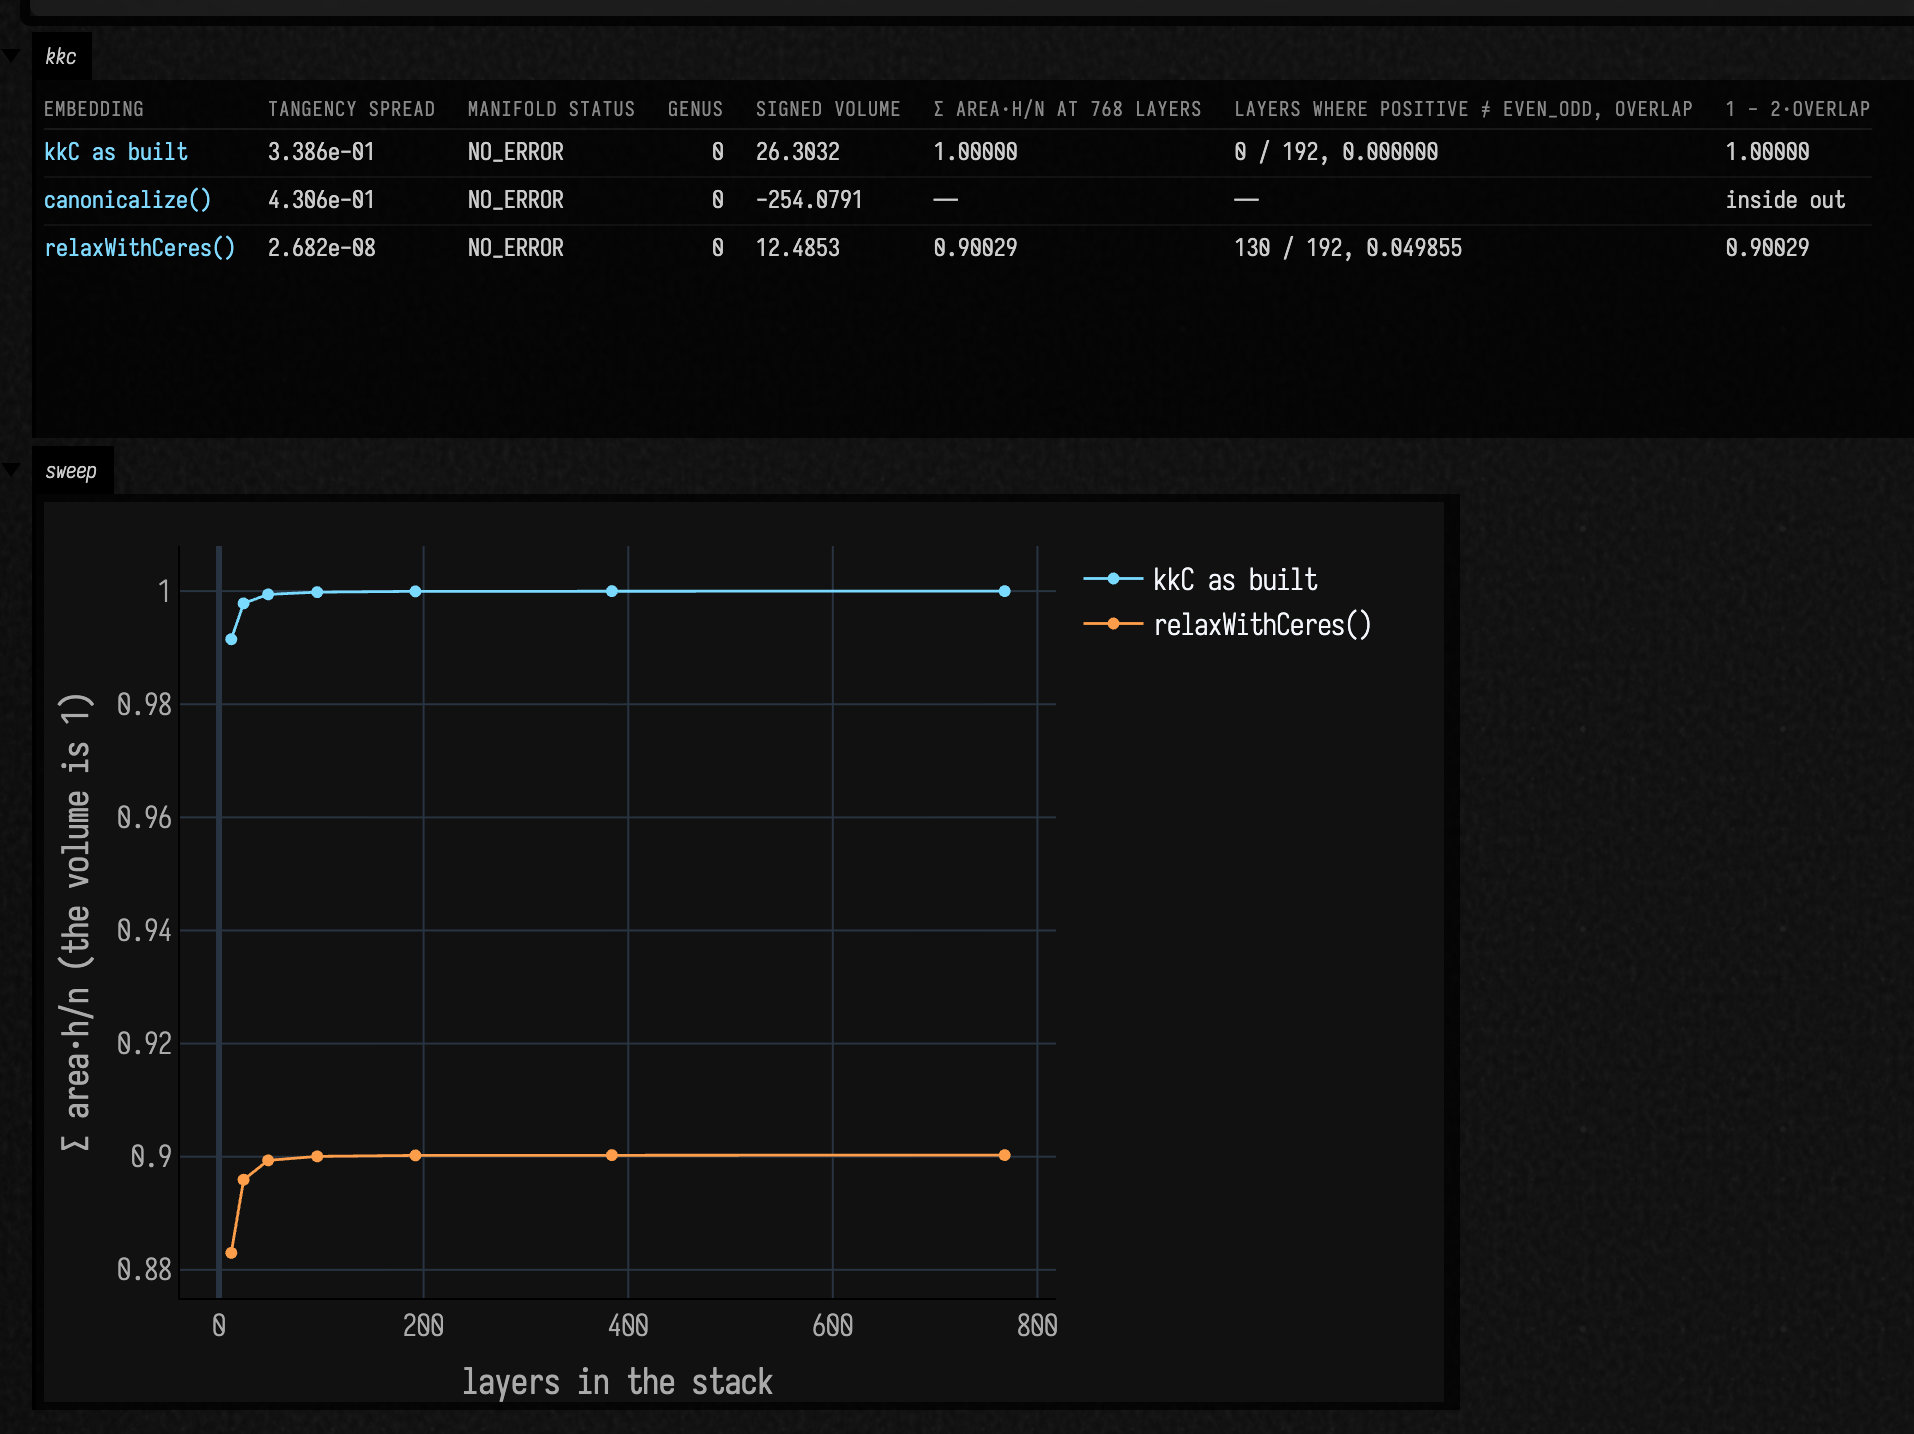
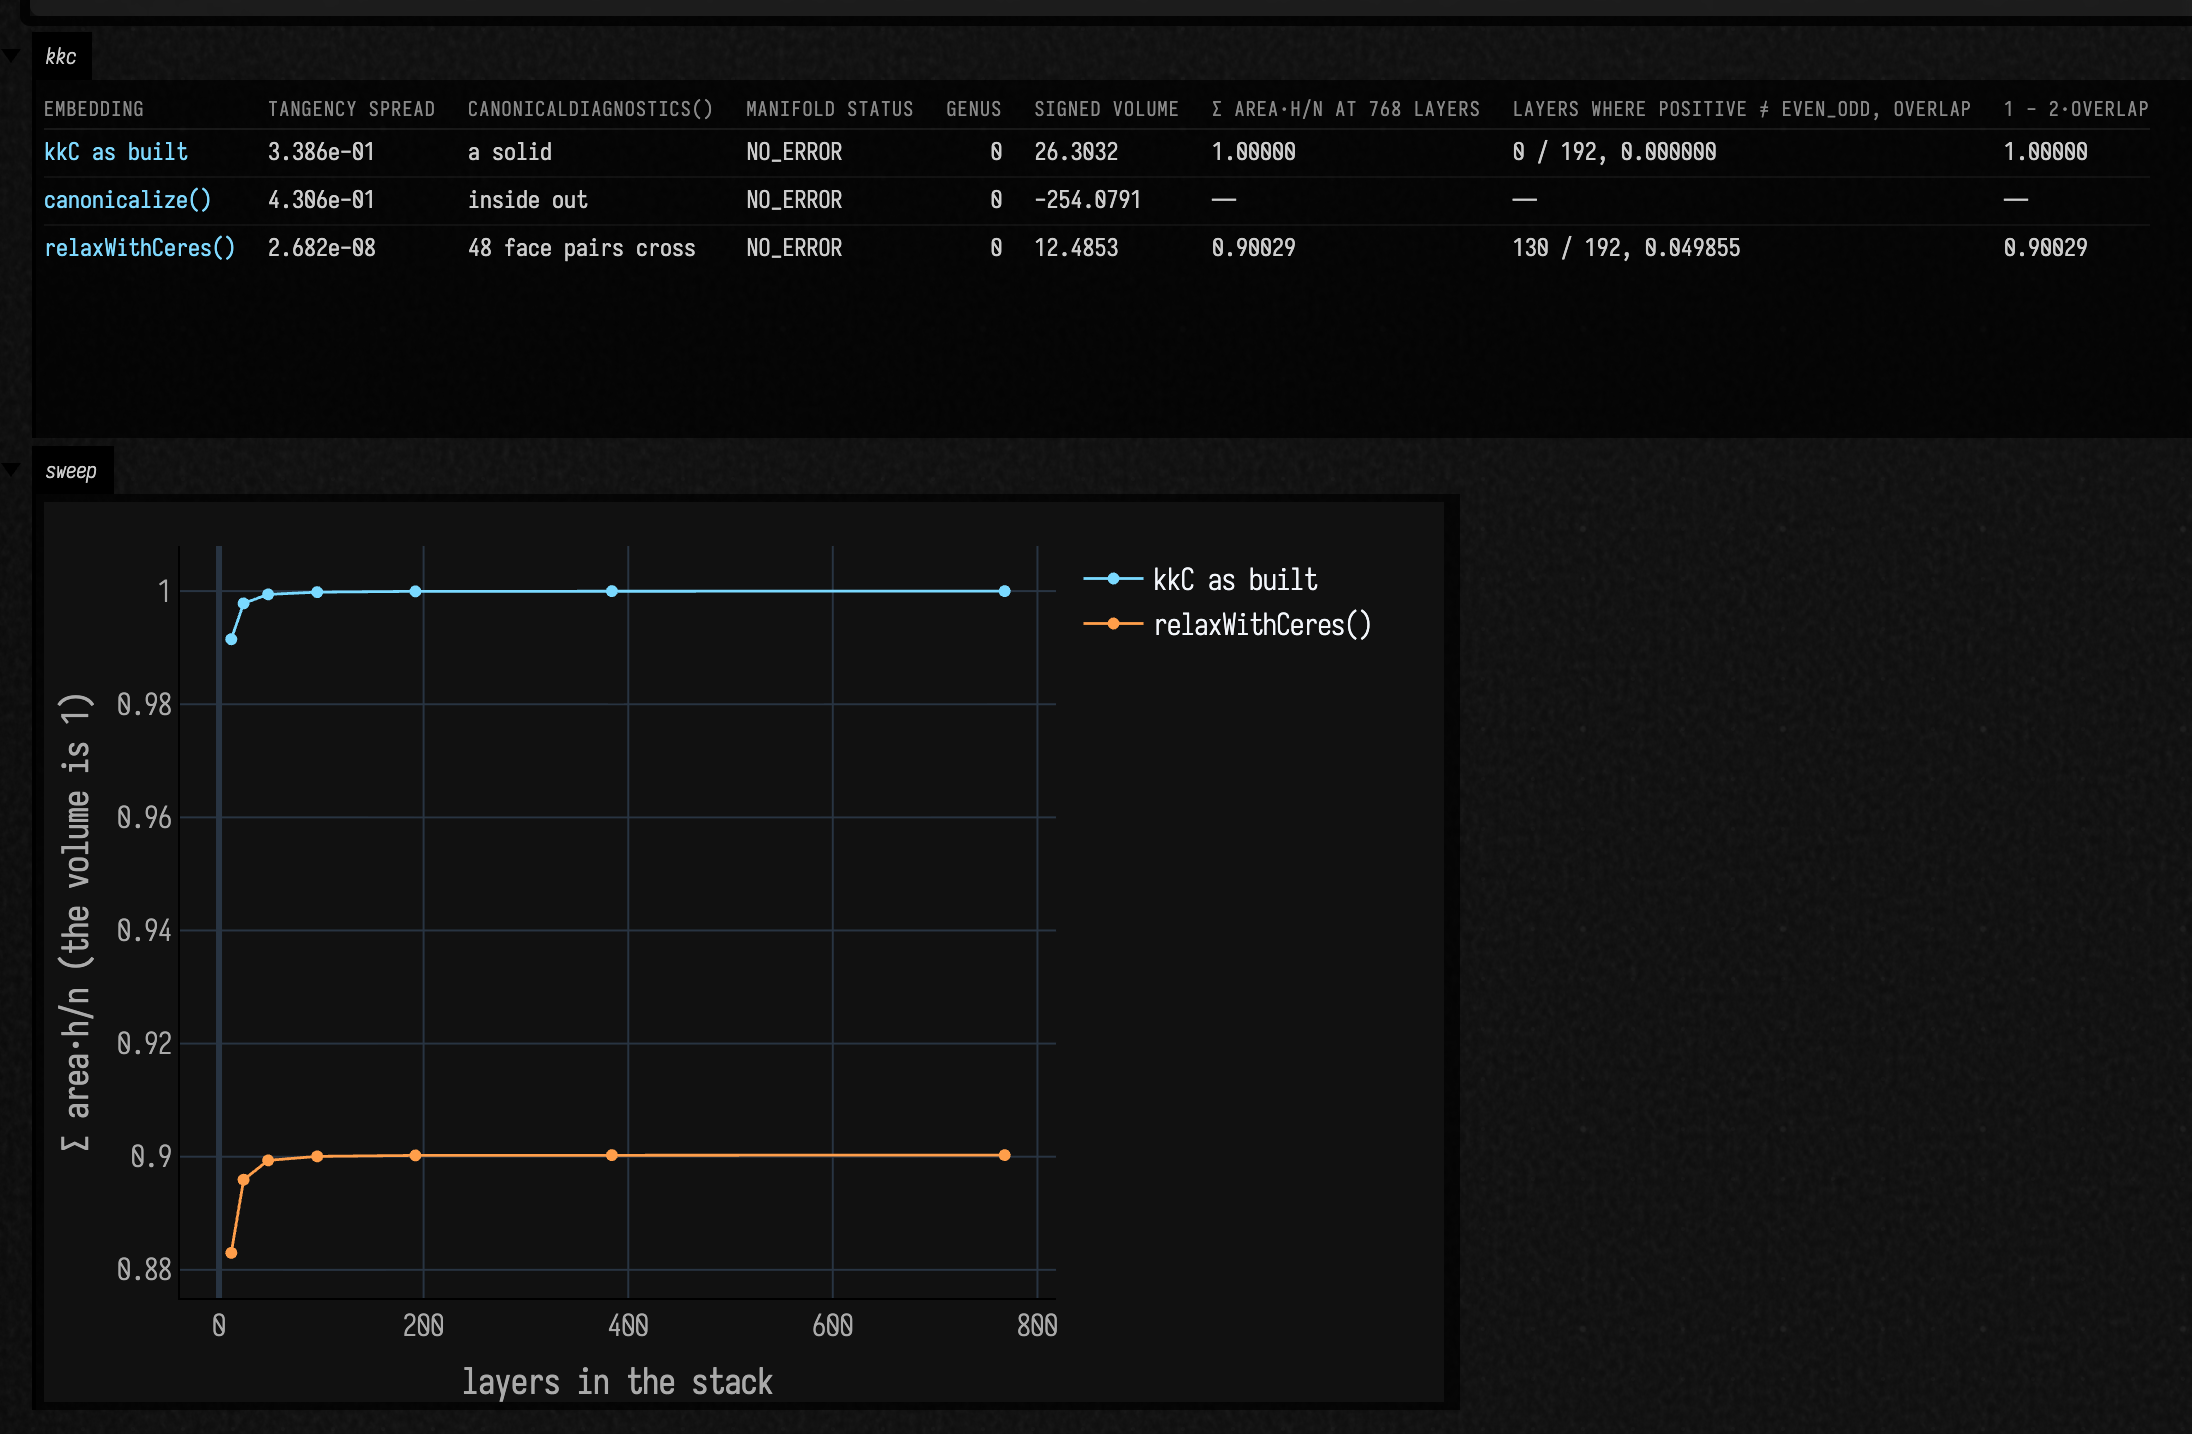
CanonicalDiagnostics: signedVolume, selfIntersectingFacePairs and isEmbedded
The canonical figures can all pass on an inside-out or self-intersecting result;
the diagnostics now say so. kkc capture recaptured with the verdict column.

diff --git a/src/jvmMain/kotlin/afield/geometry/polytope/Canonical.kt b/src/jvmMain/kotlin/afield/geometry/polytope/Canonical.kt
@@ -108,7 +108,24 @@ data class CanonicalDiagnostics(
      * other numbers on this record are not to be trusted.
      */
     val degenerateFaces: List<ElementId>,
-)
+    /**
+     * Signed volume enclosed by the faces, by the divergence theorem over a centroid fan of each face.
+     * Negative means the embedding has turned inside out.
+     */
+    val signedVolume: Double = 0.0,
+    /**
+     * Pairs of faces whose surfaces cross, counted between triangles of the faces' centroid fans that
+     * share no corner. Non-zero means the surface passes through itself: tangency and planarity can
+     * still all be satisfied, and a `Solid` made from it still reports `NO_ERROR`.
+     */
+    val selfIntersectingFacePairs: Int = 0,
+) {
+    /**
+     * Whether this is an embedding of a solid at all: positive volume and a surface that does not pass
+     * through itself. Read it before the canonical figures, which can all be excellent when it is false.
+     */
+    val isEmbedded: Boolean get() = signedVolume > 0.0 && selfIntersectingFacePairs == 0
+}
 
 /**
  * Which iteration drives the embedding toward the canonical conditions.
@@ -567,7 +584,73 @@ fun PolyhedralObject.canonicalDiagnostics(): CanonicalDiagnostics {
         dihedralAngleMean = if (dihedrals.isEmpty()) 0.0 else dihedrals.average(),
         dihedralAngleSpread = (dihedrals.maxOrNull() ?: 0.0) - (dihedrals.minOrNull() ?: 0.0),
         degenerateFaces = degenerate,
+        signedVolume = fanSignedVolume(x, problem.faceCycles),
+        selfIntersectingFacePairs = crossingFacePairs(x, problem.faceCycles),
     )
+}
+
+/** One centroid-fan triangle of a face, as three points, plus the corner indices it touches. */
+private class FanTriangle(val face: Int, val a: DoubleArray, val b: DoubleArray, val c: DoubleArray, val corners: IntArray)
+
+private fun corner(x: DoubleArray, i: Int) = doubleArrayOf(x[3 * i], x[3 * i + 1], x[3 * i + 2])
+
+private fun fanTriangles(x: DoubleArray, faces: List<IntArray>): List<FanTriangle> = buildList {
+    faces.forEachIndexed { f, cycle ->
+        val centre = DoubleArray(3)
+        cycle.forEach { for (axis in 0..2) centre[axis] += x[3 * it + axis] / cycle.size }
+        for (k in cycle.indices) {
+            val i = cycle[k]
+            val j = cycle[(k + 1) % cycle.size]
+            add(FanTriangle(f, centre, corner(x, i), corner(x, j), intArrayOf(i, j)))
+        }
+    }
+}
+
+private fun fanSignedVolume(x: DoubleArray, faces: List<IntArray>): Double =
+    fanTriangles(x, faces).sumOf { t ->
+        val (a, b, c) = Triple(t.a, t.b, t.c)
+        (a[0] * (b[1] * c[2] - b[2] * c[1]) - a[1] * (b[0] * c[2] - b[2] * c[0]) + a[2] * (b[0] * c[1] - b[1] * c[0])) / 6.0
+    }
+
+/** Face pairs with a crossing between fan triangles that share no corner and are not of one face. */
+private fun crossingFacePairs(x: DoubleArray, faces: List<IntArray>): Int {
+    val tris = fanTriangles(x, faces)
+    val crossing = HashSet<Long>()
+    for (p in tris.indices) for (q in p + 1 until tris.size) {
+        val s = tris[p]
+        val t = tris[q]
+        if (s.face == t.face || s.corners.any { it in t.corners }) continue
+        val key = minOf(s.face, t.face).toLong() shl 32 or maxOf(s.face, t.face).toLong()
+        if (key in crossing) continue
+        if (trianglesCross(s, t)) crossing += key
+    }
+    return crossing.size
+}
+
+private fun trianglesCross(s: FanTriangle, t: FanTriangle): Boolean {
+    val sEdges = listOf(s.a to s.b, s.b to s.c, s.c to s.a)
+    val tEdges = listOf(t.a to t.b, t.b to t.c, t.c to t.a)
+    return sEdges.any { (p, q) -> segmentHitsTriangle(p, q, t) } || tEdges.any { (p, q) -> segmentHitsTriangle(p, q, s) }
+}
+
+/** Möller–Trumbore, with the segment's own parameter kept strictly inside (0, 1). */
+private fun segmentHitsTriangle(p: DoubleArray, q: DoubleArray, t: FanTriangle): Boolean {
+    val d = DoubleArray(3) { q[it] - p[it] }
+    val e1 = DoubleArray(3) { t.b[it] - t.a[it] }
+    val e2 = DoubleArray(3) { t.c[it] - t.a[it] }
+    val h = doubleArrayOf(d[1] * e2[2] - d[2] * e2[1], d[2] * e2[0] - d[0] * e2[2], d[0] * e2[1] - d[1] * e2[0])
+    val det = e1[0] * h[0] + e1[1] * h[1] + e1[2] * h[2]
+    val scale = max(1e-30, sqrt(d.sumOf { it * it }) * sqrt(e1.sumOf { it * it }) * sqrt(e2.sumOf { it * it }))
+    if (abs(det) < 1e-12 * scale) return false
+    val inv = 1.0 / det
+    val sv = DoubleArray(3) { p[it] - t.a[it] }
+    val u = inv * (sv[0] * h[0] + sv[1] * h[1] + sv[2] * h[2])
+    if (u <= 1e-9 || u >= 1.0 - 1e-9) return false
+    val qv = doubleArrayOf(sv[1] * e1[2] - sv[2] * e1[1], sv[2] * e1[0] - sv[0] * e1[2], sv[0] * e1[1] - sv[1] * e1[0])
+    val v = inv * (d[0] * qv[0] + d[1] * qv[1] + d[2] * qv[2])
+    if (v <= 1e-9 || u + v >= 1.0 - 1e-9) return false
+    val along = inv * (e2[0] * qv[0] + e2[1] * qv[1] + e2[2] * qv[2])
+    return along > 1e-9 && along < 1.0 - 1e-9
 }
 
 // ==============================================================================================

diff --git a/src/jvmTest/kotlin/afield/geometry/polytope/CanonicalEmbeddingDiagnosticsTest.kt b/src/jvmTest/kotlin/afield/geometry/polytope/CanonicalEmbeddingDiagnosticsTest.kt
@@ -1,0 +1,43 @@
+package afield.geometry.polytope
+
+import kotlin.test.Test
+import kotlin.test.assertEquals
+import kotlin.test.assertFalse
+import kotlin.test.assertTrue
+
+/** [CanonicalDiagnostics.isEmbedded]: the canonical figures can all be good on a result that is not a solid. */
+class CanonicalEmbeddingDiagnosticsTest {
+    @Test
+    fun `a canonical cube is embedded`() {
+        val d = canonicalConway("C").polyhedron.canonicalDiagnostics()
+        assertTrue(d.signedVolume > 0.0, "volume ${d.signedVolume}")
+        assertEquals(0, d.selfIntersectingFacePairs)
+        assertTrue(d.isEmbedded)
+    }
+
+    @Test
+    fun `kkC as built is embedded and canonicalize turns it inside out`() {
+        val seed = conway("kkC").polyhedron
+        assertTrue(seed.canonicalDiagnostics().isEmbedded, "kkC as built: ${seed.canonicalDiagnostics()}")
+        val iterated = seed.canonicalize().polyhedron.canonicalDiagnostics()
+        assertFalse(iterated.isEmbedded, "canonicalize() of kkC should be reported as not a solid: $iterated")
+    }
+
+    @Test
+    fun `the Ceres canonical kkC passes through itself and the diagnostics say so`() {
+        val solved = try {
+            conway("kkC").polyhedron.relaxWithCeres(
+                RelaxationPlan.canonicalConditions(), CeresRelaxationOptions(maxIterations = 500),
+            ).realization.polyhedron
+        } catch (t: Throwable) {
+            if (t is AssertionError) throw t
+            println("CanonicalEmbeddingDiagnosticsTest: skipping the Ceres case — ${t.message}")
+            return
+        }
+        val d = solved.canonicalDiagnostics()
+        println("Ceres kkC: volume ${d.signedVolume}, crossing face pairs ${d.selfIntersectingFacePairs}, spread ${d.tangencyRadiusSpread}")
+        assertTrue(d.signedVolume > 0.0)
+        assertTrue(d.selfIntersectingFacePairs > 0, "the page measures a self-intersection here: $d")
+        assertFalse(d.isEmbedded)
+    }
+}

diff --git a/public/docs/chain_ceres_manifold_contours.md b/public/docs/chain_ceres_manifold_contours.md
@@ -314,7 +314,7 @@ Every form above sums correctly. `kkC` (kis applied twice to the cube) is a poly
 [Polytopes & the Conway Algebra](polytope_examples.md) uses it as its counter-example. The Ceres
 solver, `relaxWithCeres`, does reach a canonical form. This box tries both and slices each result.
 
-```diffstatic_runner {data-lang=kotlin screenshot="assets/chain_ceres_manifold_contours/kkc.png" wait="14" capture="box" open-outputs="true" w="1240" h="820" padding="16" timeout="360" name="chain-contours-kkc" requires="ceres,manifold" alt="A three-row table of the kkC embeddings and a convergence plot. The plot has two traces against layer count: kkC as built climbing to 1.00000, and relaxWithCeres() flattening out at 0.90029 and staying there" embed=true}
+```diffstatic_runner {data-lang=kotlin screenshot="assets/chain_ceres_manifold_contours/kkc.png" wait="14" capture="box" open-outputs="true" w="1240" h="820" padding="16" timeout="360" name="chain-contours-kkc" requires="ceres,manifold" alt="A three-row table of the kkC embeddings, with what canonicalDiagnostics() says of each, and a convergence plot. The plot has two traces against layer count: kkC as built climbing to 1.00000, and relaxWithCeres() flattening out at 0.90029 and staying there" embed=true}
 :::static
 import afield.geometry.solid.manifold.FillRule
 import afield.geometry.solid.manifold.Solid
@@ -370,12 +370,16 @@ val sweeps = mutableListOf<Pair<String, List<Number>>>()
 Solid.scope {
     for ((label, p) in ["kkC as built" to seed, "canonicalize()" to iterated, "relaxWithCeres()" to solved]) {
         val d = p.canonicalDiagnostics()
+        val verdict = when {
+            d.isEmbedded -> "a solid"
+            d.signedVolume <= 0.0 -> "inside out"
+            else -> "${d.selfIntersectingFacePairs} face pairs cross"
+        }
         val bare = solidOf(p)
-        // A non-positive signed volume is not a printable body, and scaling it onto the bed
-        // would mirror it into looking like one. So it is reported rather than rescued.
-        if (bare.volume <= 0.0) {
-            rows += [label, "%.3e".format(d.tangencyRadiusSpread), "${bare.status}", bare.genus,
-                "%.4f".format(bare.volume), "—", "—", "inside out"]
+        // Scaling an inside-out body onto the bed would mirror it into looking like one.
+        if (d.signedVolume <= 0.0) {
+            rows += [label, "%.3e".format(d.tangencyRadiusSpread), verdict, "${bare.status}", bare.genus,
+                "%.4f".format(bare.volume), "—", "—", "—"]
             continue
         }
         val solid = onTheBed(bare)
@@ -383,7 +387,7 @@ Solid.scope {
         val (disagreeing, over) = overlap(solid)
         sweeps += label to sweep
         rows += [
-            label, "%.3e".format(d.tangencyRadiusSpread), "${bare.status}", bare.genus,
+            label, "%.3e".format(d.tangencyRadiusSpread), verdict, "${bare.status}", bare.genus,
             "%.4f".format(bare.volume), "%.5f".format(sweep.last()),
             "$disagreeing / 192, %.6f".format(over),
             "%.5f".format(1.0 - 2.0 * over),
@@ -393,7 +397,7 @@ Solid.scope {
 }
 
 markdown("kkc", Table([
-    "embedding", "tangency spread", "Manifold status", "genus", "signed volume",
+    "embedding", "tangency spread", "canonicalDiagnostics()", "Manifold status", "genus", "signed volume",
     "Σ area·h/n at 768 layers", "layers where POSITIVE ≠ EVEN_ODD, overlap", "1 − 2·overlap",
 ]).rows(rows).h, width = 1180)
 showSignals(
@@ -407,12 +411,13 @@ showSignals(
 
 In the middle row, `canonicalize()` turns `kkC` inside out: its signed volume goes negative.
 Manifold still reports `NO_ERROR` and genus 0, because a surface that passes through itself can
-still be a valid manifold as far as `status` is concerned. A negative volume is reason enough to
-refuse the result, so the box does.
+still be a valid manifold as far as `status` is concerned. `canonicalDiagnostics()` reports the
+negative `signedVolume`, so `isEmbedded` is false and the box does not slice it.
 
 In the bottom row, `relaxWithCeres(RelaxationPlan.canonicalConditions())` converges in a few
-milliseconds and returns a positive volume, `NO_ERROR` and genus 0. Every canonical diagnostic
-reports success, but the layer stack does not agree:
+milliseconds to a positive volume with every canonical condition met, and `canonicalDiagnostics()`
+still says it is not a solid: `selfIntersectingFacePairs` counts the faces that pass through each
+other. The layer stack agrees:
 
 * The Riemann sum levels off below 1 and stays there as the layers get thinner. A sum that is short
   only because the layers are coarse keeps climbing, as `kkC` as built does in the same plot.
@@ -420,10 +425,9 @@ reports success, but the layer stack does not agree:
   this page they agree on every layer.
 * The overlap the fill rules imply accounts exactly for the missing volume.
 
-So the surface passes through itself. `volume` integrates over the boundary and counts the
-overlapping region twice; the slicer resolves each layer into a region and counts it once. The
-`riemann` and `overlap` lines in the box are a self-intersection test you can run on any solid,
-which the canonical diagnostics do not include.
+`volume` integrates over the boundary and counts the overlapping region twice; the slicer resolves
+each layer into a region and counts it once. The `riemann` and `overlap` lines in the box are the
+same test done with slices, and they work on any solid, not only a polytope.
 
 !!! note "A Boolean will not find the crossings for you"
 
